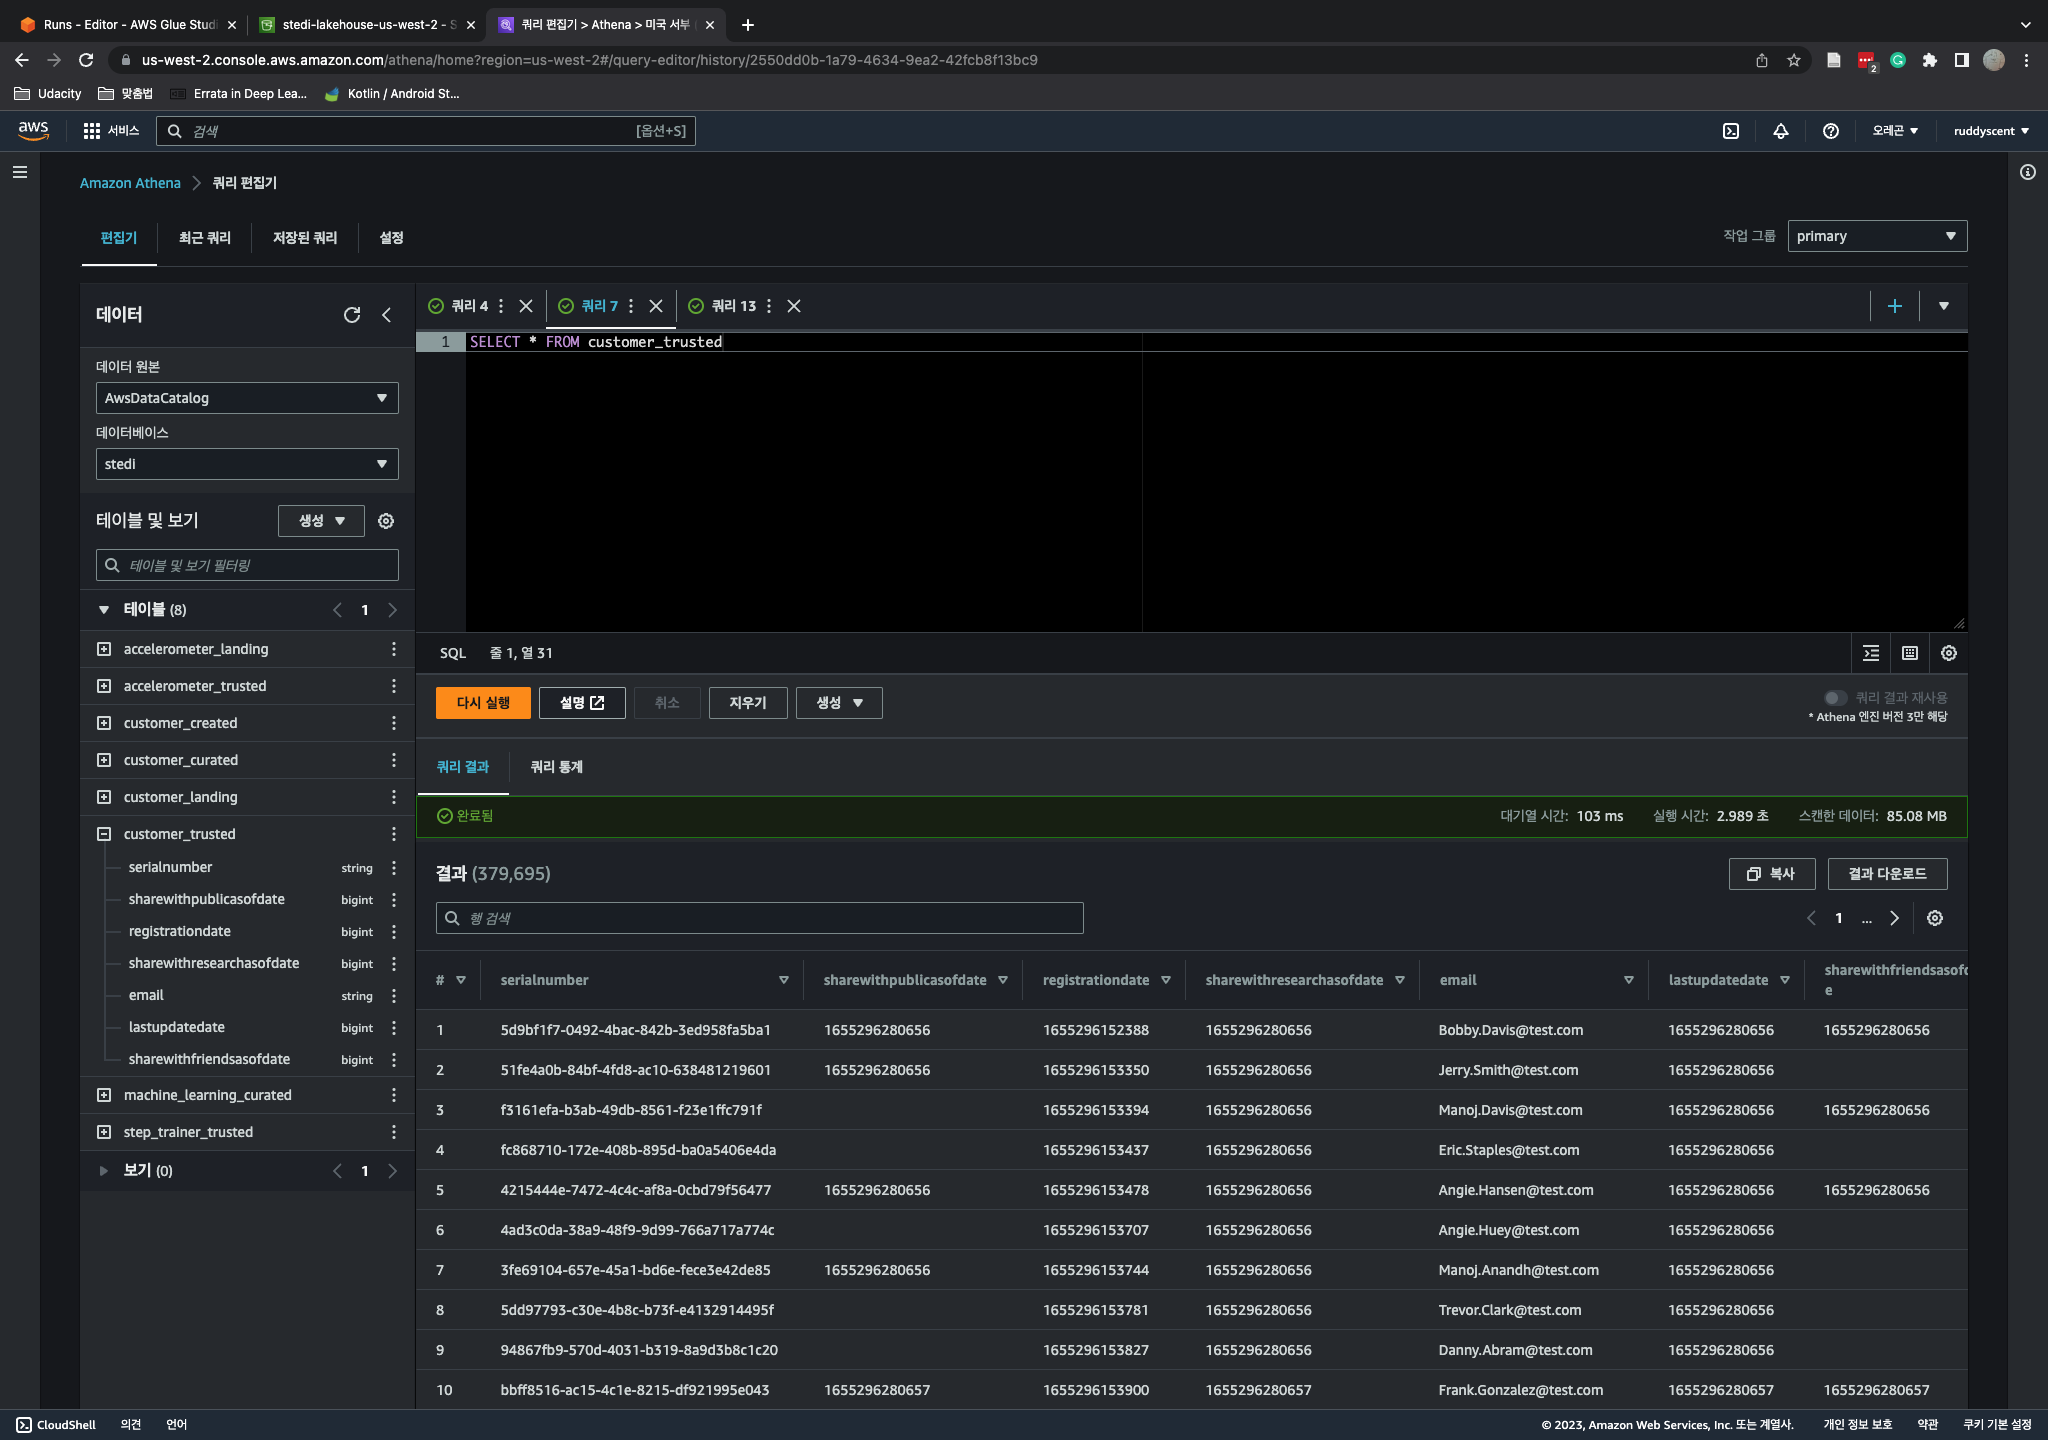
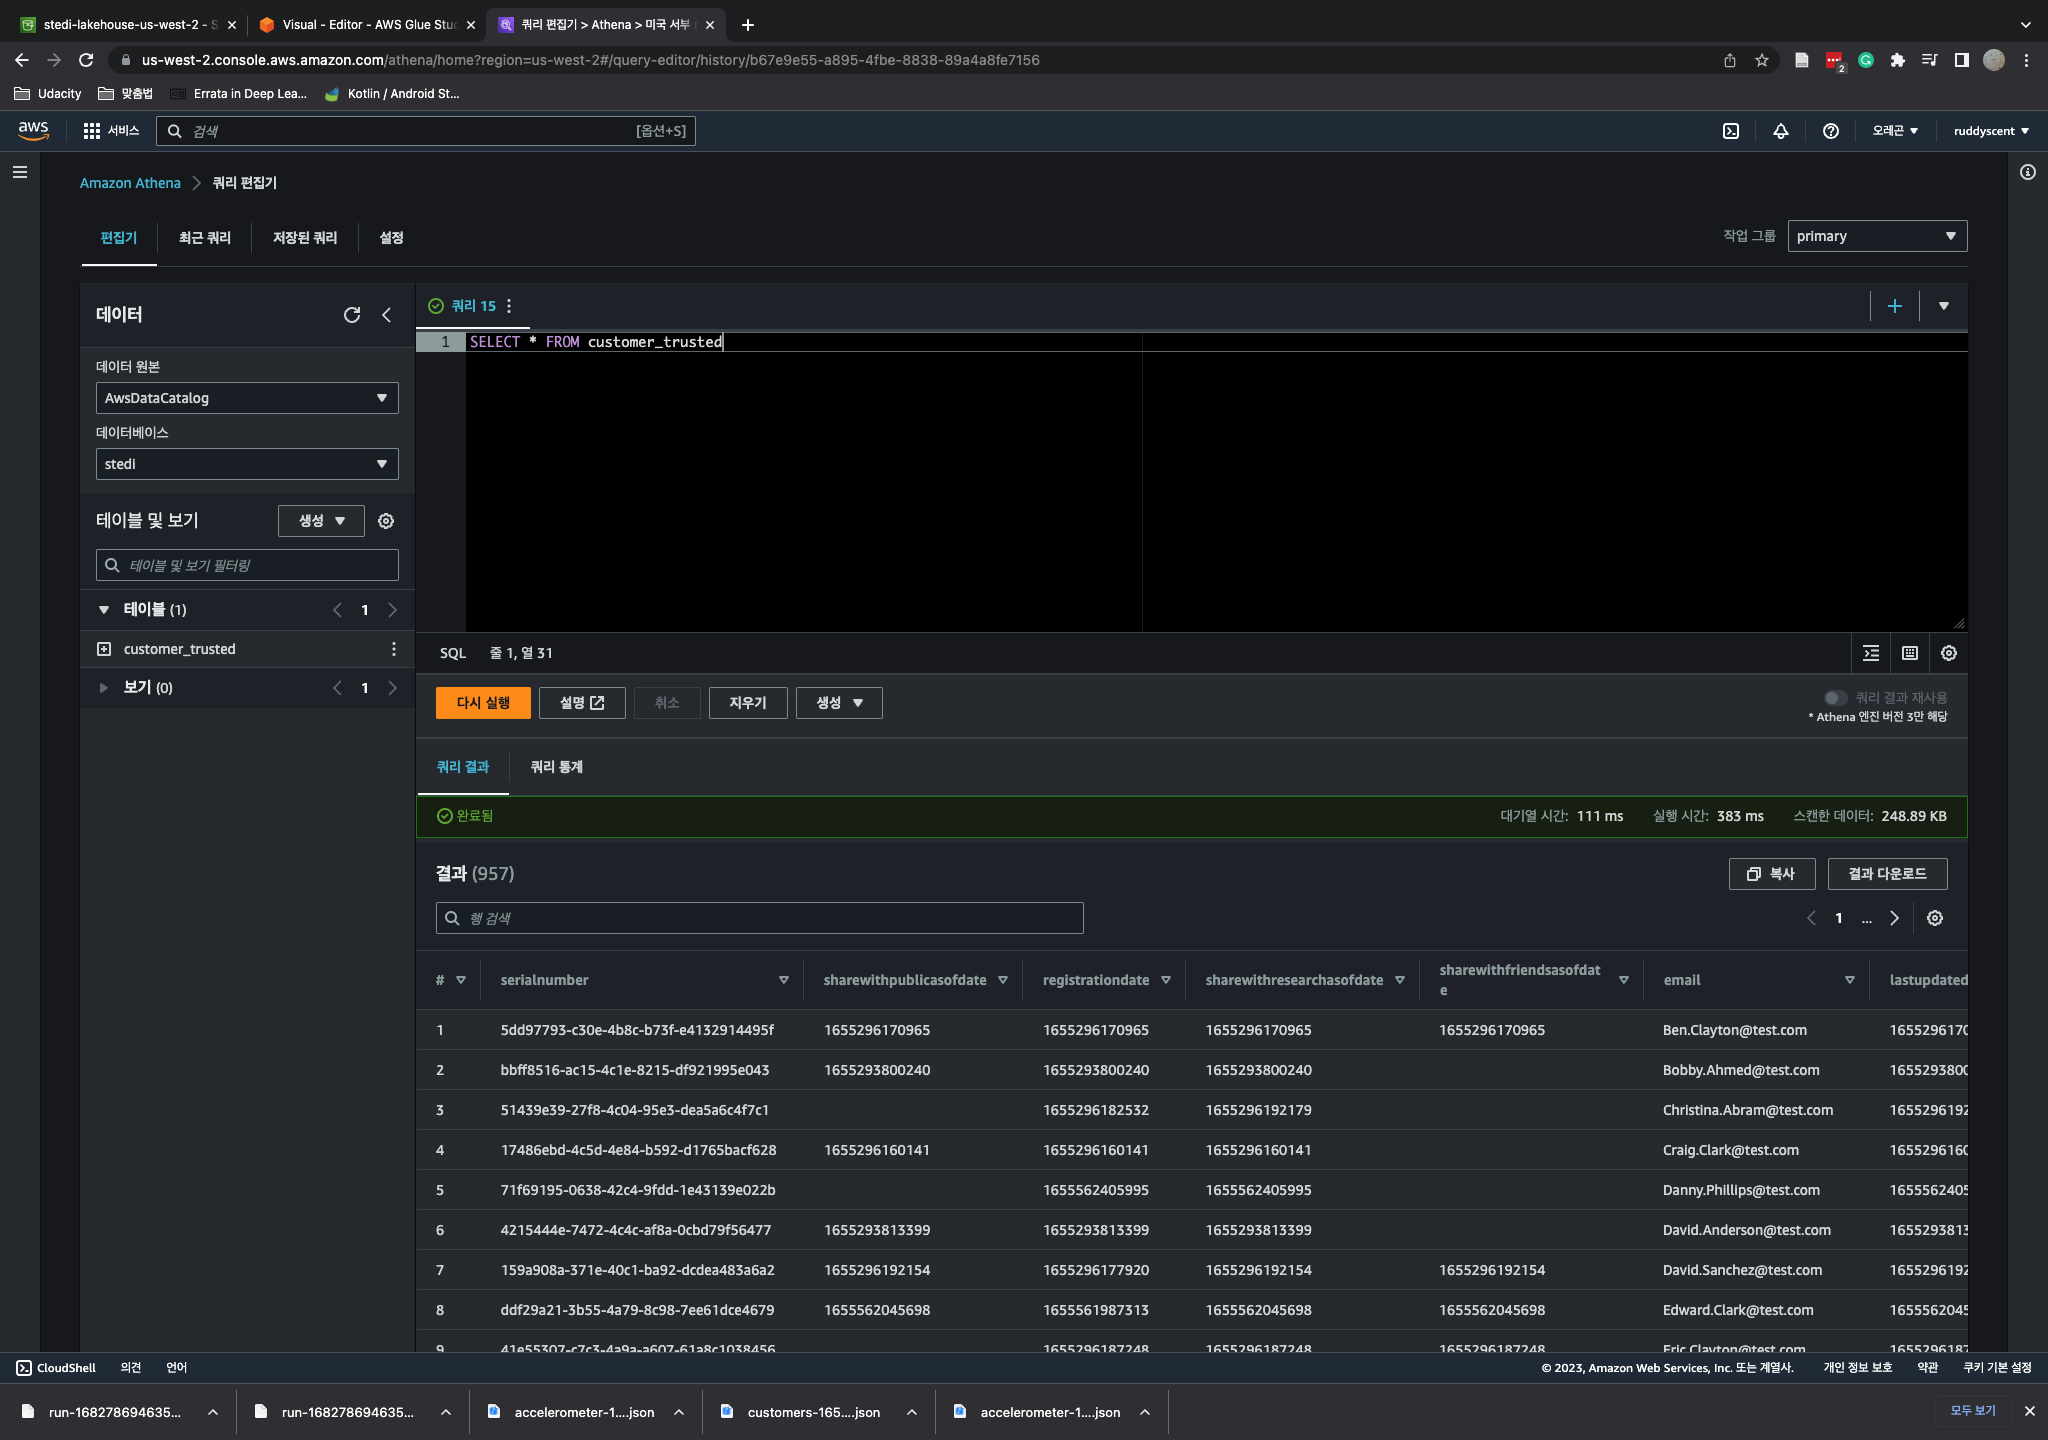
Complete requirements of stand out section

diff --git a/nd027/stedi-human-balance-analytics/home/customer_trusted_to_curated.py b/nd027/stedi-human-balance-analytics/home/customer_trusted_to_curated.py
@@ -4,7 +4,6 @@ from awsglue.utils import getResolvedOptions
 from pyspark.context import SparkContext
 from awsglue.context import GlueContext
 from awsglue.job import Job
-from awsglue.dynamicframe import DynamicFrame
 
 args = getResolvedOptions(sys.argv, ["JOB_NAME"])
 sc = SparkContext()
@@ -27,26 +26,66 @@ AccelerometerTrusted_node1682584724137 = glueContext.create_dynamic_frame.from_c
     transformation_ctx="AccelerometerTrusted_node1682584724137",
 )
 
-# Script generated for node Join
-CustomerTrusted_node1682584556895DF = CustomerTrusted_node1682584556895.toDF()
-AccelerometerTrusted_node1682584724137DF = AccelerometerTrusted_node1682584724137.toDF()
-Join_node2 = DynamicFrame.fromDF(
-    CustomerTrusted_node1682584556895DF.join(
-        AccelerometerTrusted_node1682584724137DF,
+# Script generated for node Renamed keys for Join
+RenamedkeysforJoin_node1682789140659 = ApplyMapping.apply(
+    frame=AccelerometerTrusted_node1682584724137,
+    mappings=[
+        ("serialnumber", "string", "`(accelerometer) serialnumber`", "string"),
+        ("z", "double", "`(accelerometer) z`", "double"),
         (
-            CustomerTrusted_node1682584556895DF["email"]
-            == AccelerometerTrusted_node1682584724137DF["user"]
+            "sharewithpublicasofdate",
+            "long",
+            "`(accelerometer) sharewithpublicasofdate`",
+            "long",
         ),
-        "leftsemi",
-    ),
-    glueContext,
-    "Join_node2",
+        ("timestamp", "long", "`(accelerometer) timestamp`", "long"),
+        (
+            "sharewithresearchasofdate",
+            "long",
+            "`(accelerometer) sharewithresearchasofdate`",
+            "long",
+        ),
+        ("registrationdate", "long", "`(accelerometer) registrationdate`", "long"),
+        (
+            "sharewithfriendsasofdate",
+            "long",
+            "`(accelerometer) sharewithfriendsasofdate`",
+            "long",
+        ),
+        ("user", "string", "`(accelerometer) user`", "string"),
+        ("y", "double", "`(accelerometer) y`", "double"),
+        ("x", "double", "`(accelerometer) x`", "double"),
+        ("lastupdatedate", "long", "`(accelerometer) lastupdatedate`", "long"),
+    ],
+    transformation_ctx="RenamedkeysforJoin_node1682789140659",
+)
+
+# Script generated for node Join
+Join_node2 = Join.apply(
+    frame1=CustomerTrusted_node1682584556895,
+    frame2=RenamedkeysforJoin_node1682789140659,
+    keys1=["email"],
+    keys2=["`(accelerometer) user`"],
+    transformation_ctx="Join_node2",
 )
 
 # Script generated for node Drop Fields
 DropFields_node1682577647921 = DropFields.apply(
     frame=Join_node2,
-    paths=["user", "timestamp", "x", "y", "z"],
+    paths=[
+        "email",
+        "`(accelerometer) lastupdatedate`",
+        "`(accelerometer) serialnumber`",
+        "`(accelerometer) z`",
+        "`(accelerometer) sharewithpublicasofdate`",
+        "`(accelerometer) timestamp`",
+        "`(accelerometer) sharewithresearchasofdate`",
+        "`(accelerometer) registrationdate`",
+        "`(accelerometer) sharewithfriendsasofdate`",
+        "`(accelerometer) user`",
+        "`(accelerometer) y`",
+        "`(accelerometer) x`",
+    ],
     transformation_ctx="DropFields_node1682577647921",
 )
 

diff --git a/nd027/stedi-human-balance-analytics/home/machine_learning_curated.py b/nd027/stedi-human-balance-analytics/home/machine_learning_curated.py
@@ -5,6 +5,15 @@ from pyspark.context import SparkContext
 from awsglue.context import GlueContext
 from awsglue.job import Job
 from awsglue.dynamicframe import DynamicFrame
+from awsglue import DynamicFrame
+
+
+def sparkSqlQuery(glueContext, query, mapping, transformation_ctx) -> DynamicFrame:
+    for alias, frame in mapping.items():
+        frame.toDF().createOrReplaceTempView(alias)
+    result = spark.sql(query)
+    return DynamicFrame.fromDF(result, glueContext, transformation_ctx)
+
 
 args = getResolvedOptions(sys.argv, ["JOB_NAME"])
 sc = SparkContext()
@@ -13,13 +22,6 @@ spark = glueContext.spark_session
 job = Job(glueContext)
 job.init(args["JOB_NAME"], args)
 
-# Script generated for node Accelerometer Trusted
-AccelerometerTrusted_node1682588529089 = glueContext.create_dynamic_frame.from_catalog(
-    database="stedi",
-    table_name="accelerometer_trusted",
-    transformation_ctx="AccelerometerTrusted_node1682588529089",
-)
-
 # Script generated for node Step Trainer Trusted
 StepTrainerTrusted_node1 = glueContext.create_dynamic_frame.from_catalog(
     database="stedi",
@@ -27,20 +29,47 @@ StepTrainerTrusted_node1 = glueContext.create_dynamic_frame.from_catalog(
     transformation_ctx="StepTrainerTrusted_node1",
 )
 
+# Script generated for node Accelerometer Trusted
+AccelerometerTrusted_node1682824927371 = glueContext.create_dynamic_frame.from_catalog(
+    database="stedi",
+    table_name="accelerometer_trusted",
+    transformation_ctx="AccelerometerTrusted_node1682824927371",
+)
+
 # Script generated for node Join
 StepTrainerTrusted_node1DF = StepTrainerTrusted_node1.toDF()
-AccelerometerTrusted_node1682588529089DF = AccelerometerTrusted_node1682588529089.toDF()
+AccelerometerTrusted_node1682824927371DF = AccelerometerTrusted_node1682824927371.toDF()
 Join_node2 = DynamicFrame.fromDF(
     StepTrainerTrusted_node1DF.join(
-        AccelerometerTrusted_node1682588529089DF,
+        AccelerometerTrusted_node1682824927371DF,
         (
             StepTrainerTrusted_node1DF["sensorreadingtime"]
-            == AccelerometerTrusted_node1682588529089DF["timestamp"]
+            == AccelerometerTrusted_node1682824927371DF["timestamp"]
         ),
-        "leftsemi",
+        "outer",
     ),
     glueContext,
     "Join_node2",
+)
+
+# Script generated for node SQL Query
+SqlQuery0 = """
+select * from myDataSource
+where sensorreadingtime is not null 
+and timestamp is not null
+"""
+SQLQuery_node1682833505543 = sparkSqlQuery(
+    glueContext,
+    query=SqlQuery0,
+    mapping={"myDataSource": Join_node2},
+    transformation_ctx="SQLQuery_node1682833505543",
+)
+
+# Script generated for node Drop Fields
+DropFields_node1682793491334 = DropFields.apply(
+    frame=SQLQuery_node1682833505543,
+    paths=["user"],
+    transformation_ctx="DropFields_node1682793491334",
 )
 
 # Script generated for node Machine Learning Curated
@@ -56,5 +85,5 @@ MachineLearningCurated_node3.setCatalogInfo(
     catalogDatabase="stedi", catalogTableName="machine_learning_curated"
 )
 MachineLearningCurated_node3.setFormat("json")
-MachineLearningCurated_node3.writeFrame(Join_node2)
+MachineLearningCurated_node3.writeFrame(DropFields_node1682793491334)
 job.commit()

diff --git a/nd027/stedi-human-balance-analytics/home/customer_landing_to_trusted.py b/nd027/stedi-human-balance-analytics/home/customer_landing_to_trusted.py
@@ -4,7 +4,9 @@ from awsglue.utils import getResolvedOptions
 from pyspark.context import SparkContext
 from awsglue.context import GlueContext
 from awsglue.job import Job
+from awsglue.dynamicframe import DynamicFrame
 import re
+from pyspark.sql import functions as SqlFuncs
 
 args = getResolvedOptions(sys.argv, ["JOB_NAME"])
 sc = SparkContext()
@@ -13,8 +15,8 @@ spark = glueContext.spark_session
 job = Job(glueContext)
 job.init(args["JOB_NAME"], args)
 
-# Script generated for node S3 bucket
-S3bucket_node1 = glueContext.create_dynamic_frame.from_options(
+# Script generated for node Customer Landing
+CustomerLanding_node1 = glueContext.create_dynamic_frame.from_options(
     format_options={"multiline": False},
     connection_type="s3",
     format="json",
@@ -22,35 +24,42 @@ S3bucket_node1 = glueContext.create_dynamic_frame.from_options(
         "paths": ["s3://stedi-lakehouse-us-west-2/customer/landing/"],
         "recurse": True,
     },
-    transformation_ctx="S3bucket_node1",
+    transformation_ctx="CustomerLanding_node1",
 )
 
 # Script generated for node Privacy Opt-In
 PrivacyOptIn_node2 = Filter.apply(
-    frame=S3bucket_node1,
+    frame=CustomerLanding_node1,
     f=lambda row: (not (row["shareWithResearchAsOfDate"] == 0)),
     transformation_ctx="PrivacyOptIn_node2",
 )
 
+# Script generated for node Drop Duplicated Account
+DropDuplicatedAccount_node1682785868953 = DynamicFrame.fromDF(
+    PrivacyOptIn_node2.toDF().dropDuplicates(["email"]),
+    glueContext,
+    "DropDuplicatedAccount_node1682785868953",
+)
+
 # Script generated for node Drop PII
 DropPII_node1682600262207 = DropFields.apply(
-    frame=PrivacyOptIn_node2,
-    paths=["customerName", "phone", "birthDay"],
+    frame=DropDuplicatedAccount_node1682785868953,
+    paths=["birthDay", "phone", "customerName"],
     transformation_ctx="DropPII_node1682600262207",
 )
 
-# Script generated for node S3 bucket
-S3bucket_node3 = glueContext.getSink(
+# Script generated for node Customer Trusted
+CustomerTrusted_node3 = glueContext.getSink(
     path="s3://stedi-lakehouse-us-west-2/customer/trusted/",
     connection_type="s3",
     updateBehavior="UPDATE_IN_DATABASE",
     partitionKeys=[],
     enableUpdateCatalog=True,
-    transformation_ctx="S3bucket_node3",
+    transformation_ctx="CustomerTrusted_node3",
 )
-S3bucket_node3.setCatalogInfo(
+CustomerTrusted_node3.setCatalogInfo(
     catalogDatabase="stedi", catalogTableName="customer_trusted"
 )
-S3bucket_node3.setFormat("json")
-S3bucket_node3.writeFrame(DropPII_node1682600262207)
+CustomerTrusted_node3.setFormat("json")
+CustomerTrusted_node3.writeFrame(DropPII_node1682600262207)
 job.commit()

diff --git a/nd027/stedi-human-balance-analytics/home/accelerometer_landing_to_trusted.py b/nd027/stedi-human-balance-analytics/home/accelerometer_landing_to_trusted.py
@@ -4,7 +4,15 @@ from awsglue.utils import getResolvedOptions
 from pyspark.context import SparkContext
 from awsglue.context import GlueContext
 from awsglue.job import Job
-from awsglue.dynamicframe import DynamicFrame
+from awsglue import DynamicFrame
+
+
+def sparkSqlQuery(glueContext, query, mapping, transformation_ctx) -> DynamicFrame:
+    for alias, frame in mapping.items():
+        frame.toDF().createOrReplaceTempView(alias)
+    result = spark.sql(query)
+    return DynamicFrame.fromDF(result, glueContext, transformation_ctx)
+
 
 args = getResolvedOptions(sys.argv, ["JOB_NAME"])
 sc = SparkContext()
@@ -33,32 +41,37 @@ CustomerTrusted_node1682555347507 = glueContext.create_dynamic_frame.from_catalo
 )
 
 # Script generated for node Join
-AccelerometerLanding_node1DF = AccelerometerLanding_node1.toDF()
-CustomerTrusted_node1682555347507DF = CustomerTrusted_node1682555347507.toDF()
-Join_node2 = DynamicFrame.fromDF(
-    AccelerometerLanding_node1DF.join(
-        CustomerTrusted_node1682555347507DF,
-        (
-            AccelerometerLanding_node1DF["user"]
-            == CustomerTrusted_node1682555347507DF["email"]
-        ),
-        "leftsemi",
-    ),
+Join_node2 = Join.apply(
+    frame1=AccelerometerLanding_node1,
+    frame2=CustomerTrusted_node1682555347507,
+    keys1=["user"],
+    keys2=["email"],
+    transformation_ctx="Join_node2",
+)
+
+# Script generated for node SQL Query
+SqlQuery0 = """
+select * from myDataSource
+where myDataSource.sharewithresearchasofdate <= myDataSource.timeStamp
+"""
+SQLQuery_node1682610897864 = sparkSqlQuery(
     glueContext,
-    "Join_node2",
+    query=SqlQuery0,
+    mapping={"myDataSource": Join_node2},
+    transformation_ctx="SQLQuery_node1682610897864",
 )
 
 # Script generated for node Drop Fields
 DropFields_node1682577758236 = DropFields.apply(
-    frame=Join_node2,
+    frame=SQLQuery_node1682610897864,
     paths=[
         "email",
         "serialnumber",
-        "sharewithfriendsasofdate",
+        "lastupdatedate",
         "sharewithpublicasofdate",
         "registrationdate",
         "sharewithresearchasofdate",
-        "lastupdatedate",
+        "sharewithfriendsasofdate",
     ],
     transformation_ctx="DropFields_node1682577758236",
 )

diff --git a/nd027/stedi-human-balance-analytics/home/step_trainer_landing_to_trusted.py b/nd027/stedi-human-balance-analytics/home/step_trainer_landing_to_trusted.py
@@ -57,7 +57,6 @@ DropFields_node1682578792205 = DropFields.apply(
         "sharewithpublicasofdate",
         "registrationdate",
         "sharewithresearchasofdate",
-        "email",
         "lastupdatedate",
     ],
     transformation_ctx="DropFields_node1682578792205",
